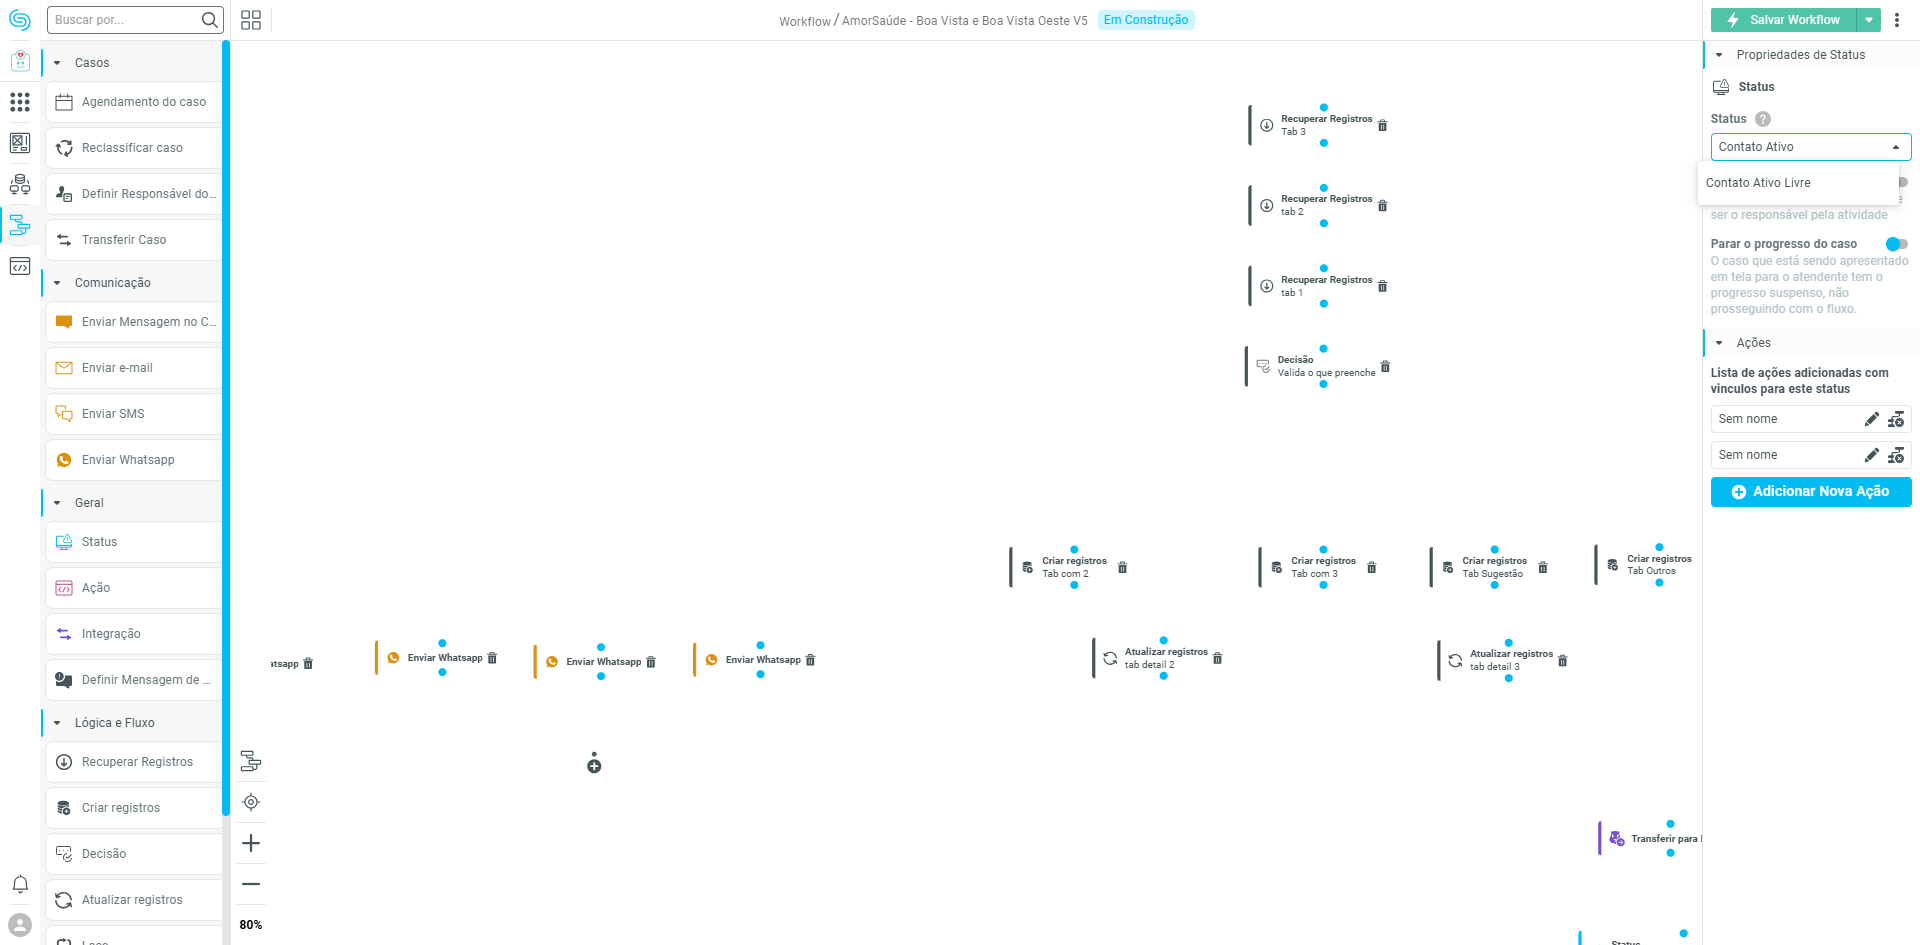
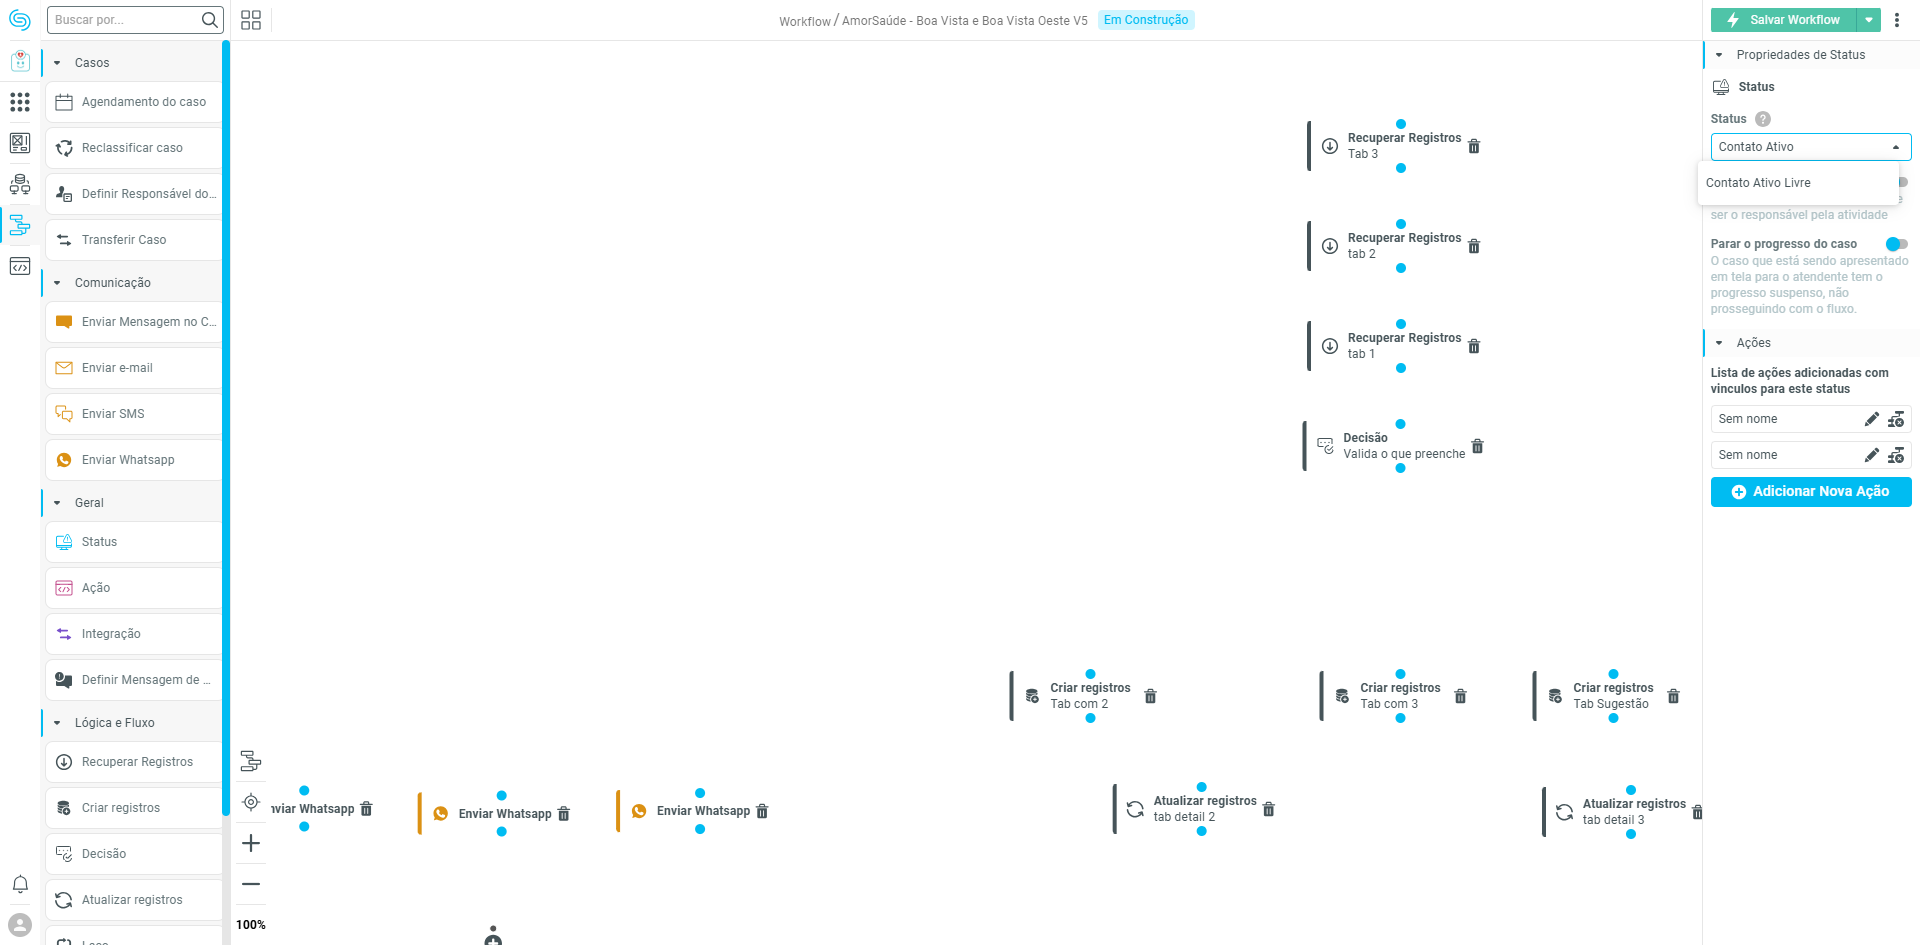
Update

diff --git a/src/bot.ts b/src/bot.ts
@@ -459,8 +459,8 @@ export async function updateAllPresidenteContatoAtivoBlocks(page: Page): Promise
   await updateAllStatusBlocks(
     page,
     { includes: ["Presidente Prudente", "Contato Ativo"] },
-    "Contato Ativo",
-    "contato-ativo"
+    "Contato Ativo Livre",
+    "contato-ativo-livre-status"
   );
 }
 

diff --git a/src/index.ts b/src/index.ts
@@ -552,7 +552,7 @@ async function runConfiguredRules(page: Page, result: WorkflowResult): Promise<v
   await runStep(result, "Aguardando Resposta Paciente", () => updateAllPresidenteAguardandoRespostaPacienteBlocks(page));
   await runStep(result, "Confirmacao Aguardando Acao", () => updateAllPresidenteConfirmacaoAguardandoAcaoBlocks(page));
   await runStep(result, "Agendado", () => updateAllPresidenteAgendadoBlocks(page));
-  await runStep(result, "Contato Ativo", () => updateAllPresidenteContatoAtivoBlocks(page));
+  await runStep(result, "Contato Ativo Livre - Status", () => updateAllPresidenteContatoAtivoBlocks(page));
   await runStep(result, "Voltar ao Menu Anterior", () => updateActionBlock(page, { includes: ["Voltar ao Menu Anterior"] }, "Voltar ao Menu Anterior", "voltar-menu-anterior"));
   await runStep(result, "Contato Ativo Livre", () => updateActionBlock(page, { includes: ["Contato Ativo Livre"] }, "Contato Ativo Livre", "contato-ativo-livre"));
 }